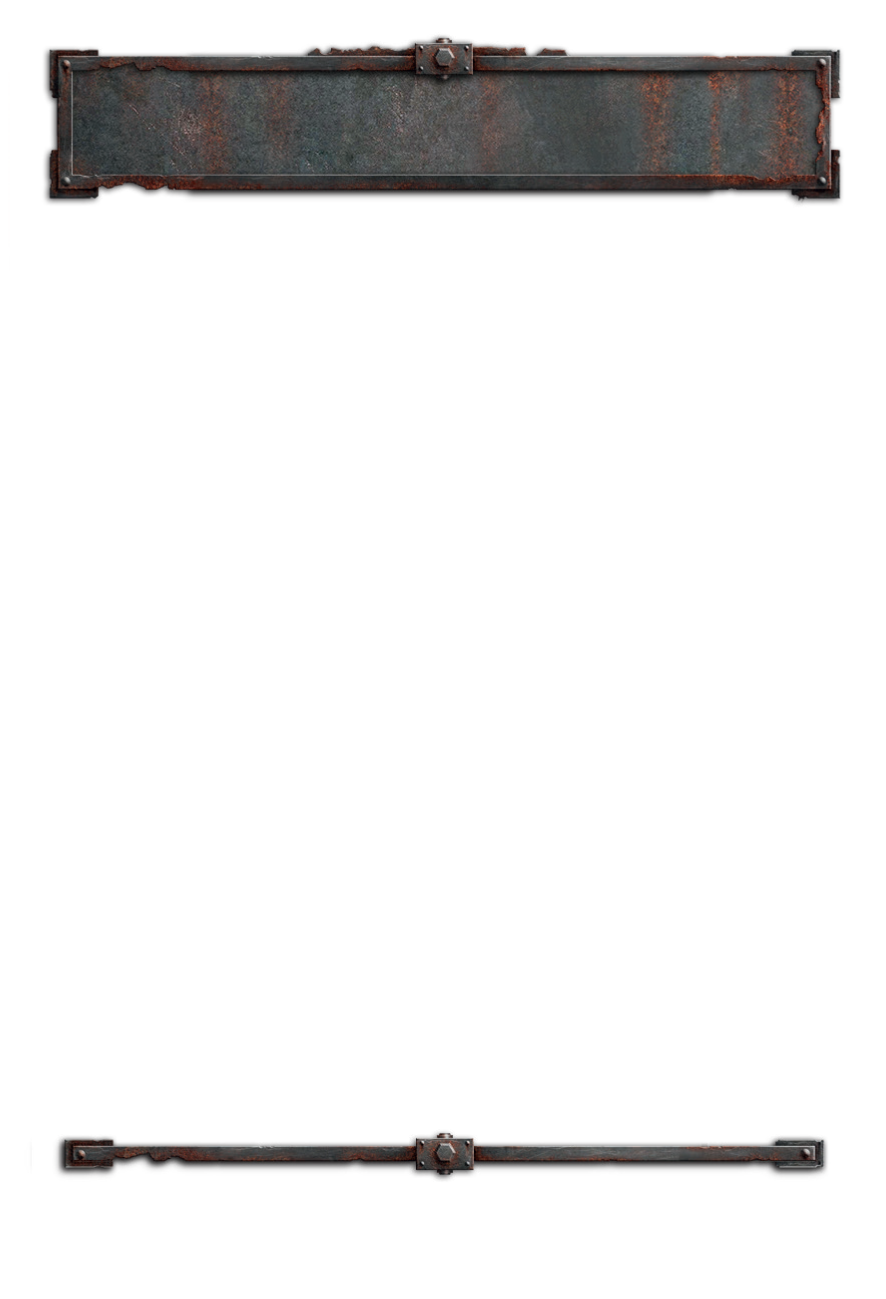
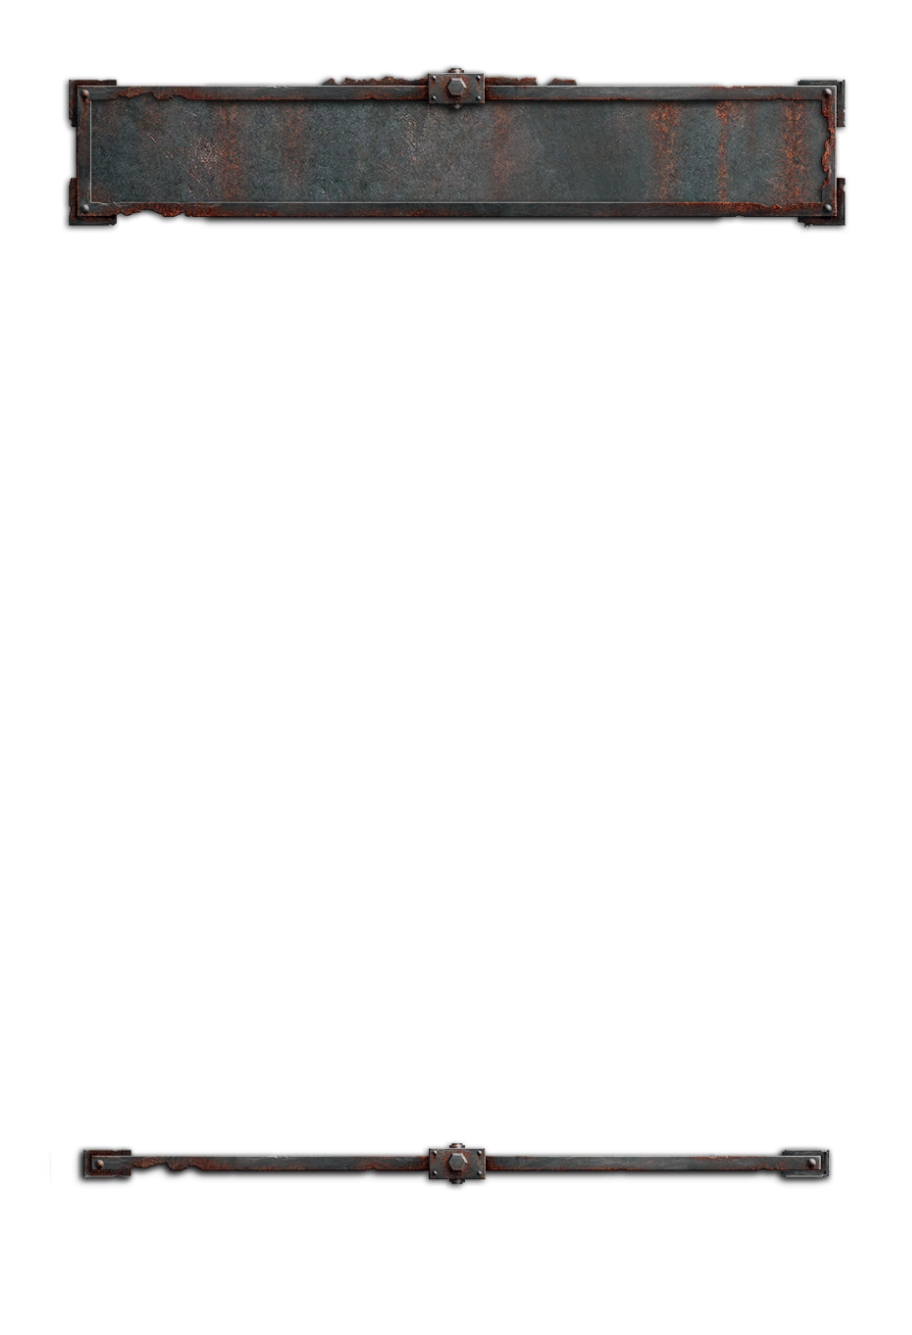
Added link to background, adjusted size to match GW pdf card size

Changed region(s): [[0.0305, 0.0308, 0.9752, 0.1848], [0.0609, 0.8314, 0.9447, 0.9238]]

diff --git a/assets/js/card.js b/assets/js/card.js
@@ -159,7 +159,7 @@ drawCardName = function (value) {
     getContext().fillStyle = 'white';
     getContext().textAlign = "center";
     getContext().textBaseline = "middle";
-    writeScaled(value, { x: getCanvas().width / 2, y: 135 });
+    writeScaled(value, { x: getCanvas().width / 2, y: 165 });
 }
 
 drawFooter = function (value) {
@@ -167,7 +167,7 @@ drawFooter = function (value) {
     getContext().fillStyle = '#5B150F';
     getContext().textAlign = "center";
     getContext().textBaseline = "middle";
-    writeScaled(value, { x: getCanvas().width / 2, y: 1230 });
+    writeScaled(value, { x: getCanvas().width / 2, y: 1245 });
 }
 
 drawCardText = function (value) {
@@ -466,7 +466,7 @@ render = function (fighterData) {
         if (fighterData.gangLogo != null) {
 
             var scaledPosition = scalePixelPosition({ x: 330, y: 760 });
-            var scaledSize = scalePixelPosition({ x: 650, y: 650 });
+            var scaledSize = scalePixelPosition({ x: 680, y: 680 });
             var imageSrc = fighterData.gangLogo;
 
             if (imageSrc != null) {

diff --git a/_includes/tabs/tabContentInstructions.html b/_includes/tabs/tabContentInstructions.html
@@ -21,6 +21,8 @@
                     file using the choose file
                     button. This can be handy if you type up a card and then notice a typo later.</li>
                 <li>Reset All will nuke everything back to default entries.</li>
+                <li>If you need the card back, you can find it <a
+                        href="/assets/img/card/necromunda_card_back.jpg">here</a>.</li>
             </ul>
 
             <p> If you have any problems or have any suggestions please contact barrysheppard@gmail.com</p>

diff --git a/_includes/tabs/tabContentCard.html b/_includes/tabs/tabContentCard.html
@@ -5,7 +5,7 @@
         <img id="bg1" style="display: none;" src="assets/img/card/blank_necromunda_card_1.png">
         <img id="bg2" style="display: none;" src="assets/img/card/blank_necromunda_card_2.png">
 
-        <canvas class="canvas rounded" id="canvas" width="886" height="1299">
+        <canvas class="canvas rounded" id="canvas" width="912" height="1335">
             Sorry, your browser doesn't support the &lt;canvas&gt; element.
         </canvas>
     </div>
